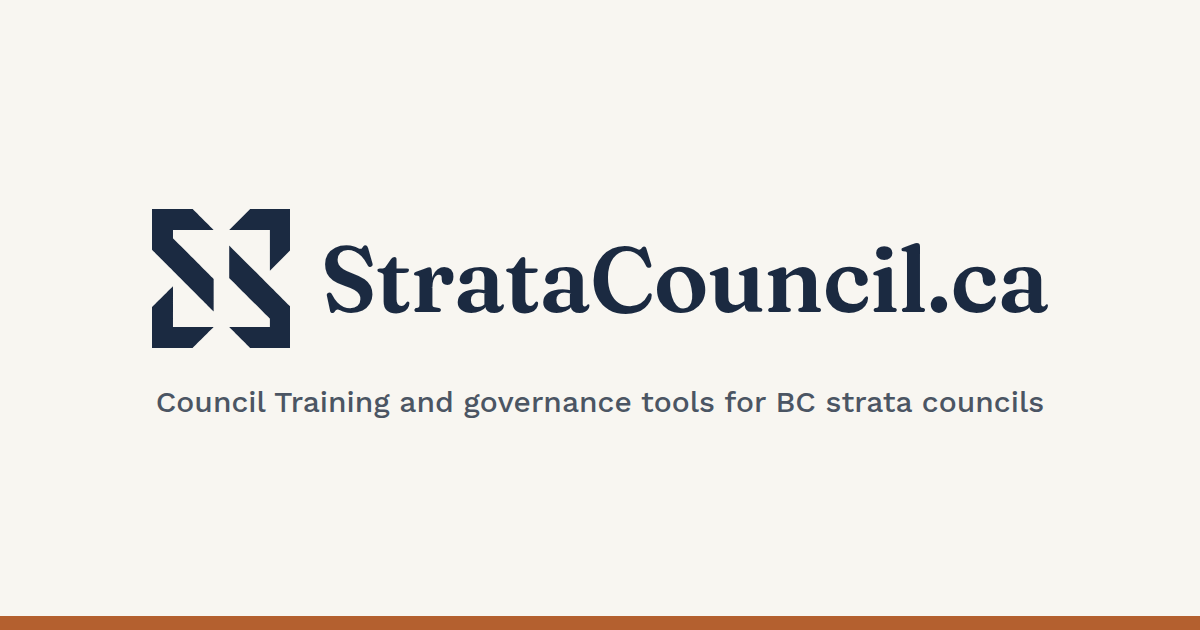
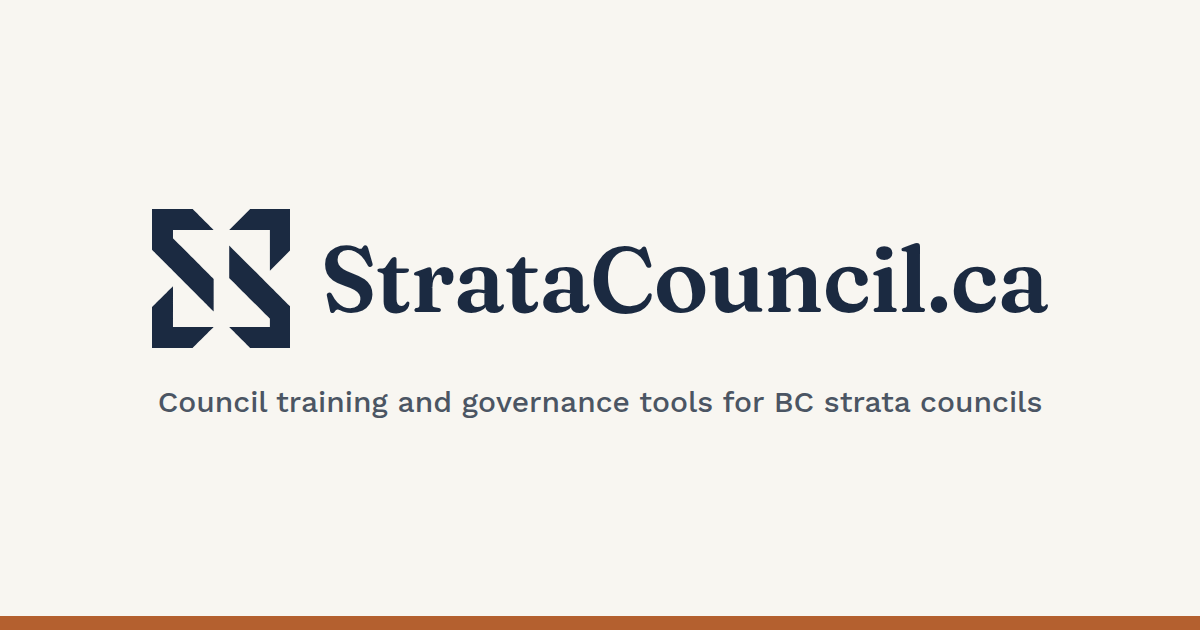
Link previews: title "StrataCouncil.ca", lower-case "training"
The app's title was "StrataCouncil.ca — App", which previews showed as
"App". It's now "StrataCouncil.ca" (the demo stays "StrataCouncil.ca
Demo"). The preview image and description read "Council training".

Claude-Session: https://claude.ai/code/session_011bdXNR69iqwsd2cqbdg9LF

Changed region(s): [[0.1233, 0.6032, 0.8633, 0.6635]]

diff --git a/app/layout.tsx b/app/layout.tsx
@@ -17,9 +17,10 @@ const workSans = Work_Sans({
 });
 
 export const metadata: Metadata = {
-  // Link previews (Messages and others) drop a "StrataCouncil.ca —" prefix, so the demo says what it is.
-  title: IS_DEMO ? "StrataCouncil.ca Demo" : "StrataCouncil.ca — App",
-  description: "Council Training and Stratasphere™ governance tools for BC strata councils.",
+  // Link previews (Messages and others) show the title under the image, so
+  // it's the plain name (the demo says what it is).
+  title: IS_DEMO ? "StrataCouncil.ca Demo" : "StrataCouncil.ca",
+  description: "Council training and Stratasphere™ governance tools for BC strata councils.",
   // The preview image is app/opengraph-image.png (the logo); this makes X show it large too.
   twitter: { card: "summary_large_image" },
 };
